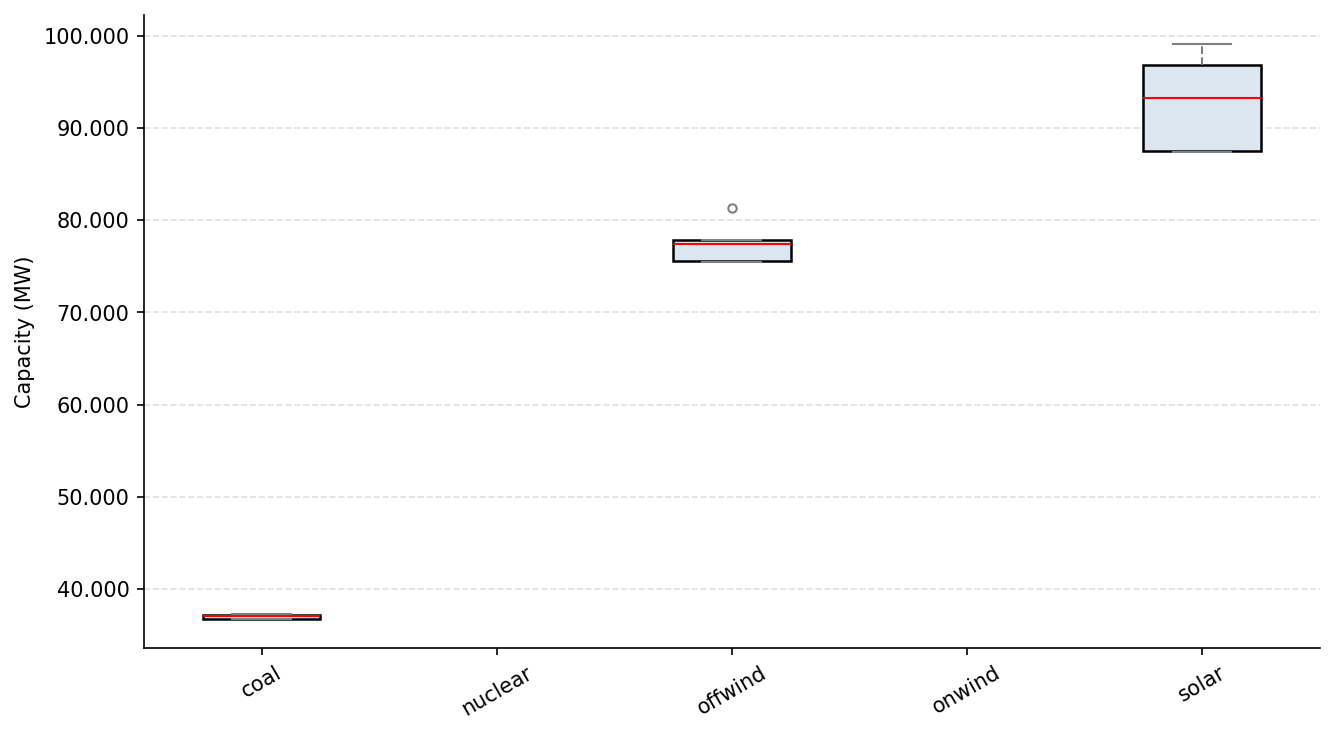
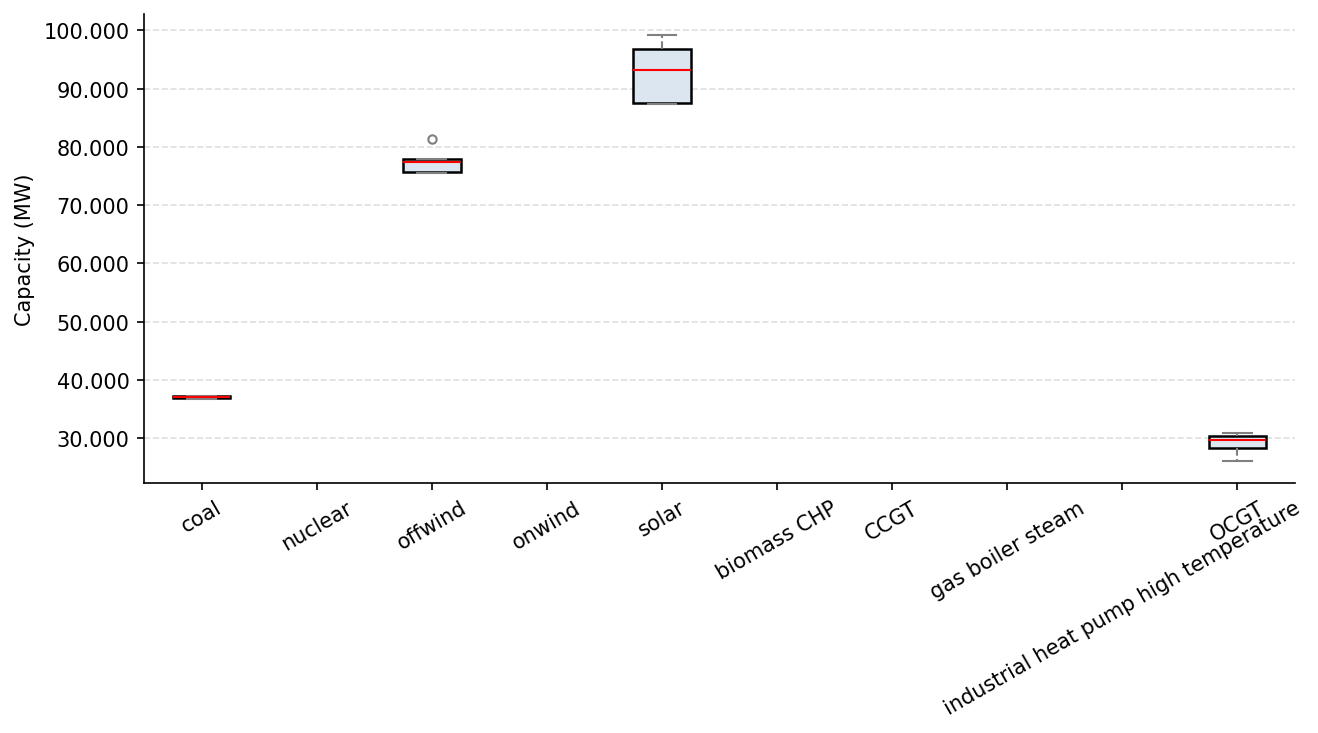
Added links for B

diff --git a/main.py b/main.py
@@ -74,11 +74,16 @@ capacity_by_tech = {} # CHANGE: added capacity per year for the plot of each tec
 for year in CONFIG_B["years"]:
     network_b = NetworkBuilder(CONFIG_B, input_data_b, year)
     networks[year] = network_b
-    for gen in network_b.network.generators.index: # CHANGE: loop through generators to get capacity per technology for each year
+    
+    # --- GENERATORS (solar, wind, coal, nuclear)
+    for gen in network_b.network.generators.index:
         cap = network_b.network.generators.loc[gen, "p_nom_opt"]
-        if gen not in capacity_by_tech:
-            capacity_by_tech[gen] = []
-        capacity_by_tech[gen].append(cap)
+        capacity_by_tech.setdefault(gen, []).append(cap)
+
+    # --- LINKS (CCGT, OCGT, CHP, etc)
+    for link in network_b.network.links.index:
+        cap = network_b.network.links.loc[link, "p_nom_opt"]
+        capacity_by_tech.setdefault(link, []).append(cap)
 
 print("\nCAPACITY_BY_TECH")
 for tech, vals in capacity_by_tech.items():
